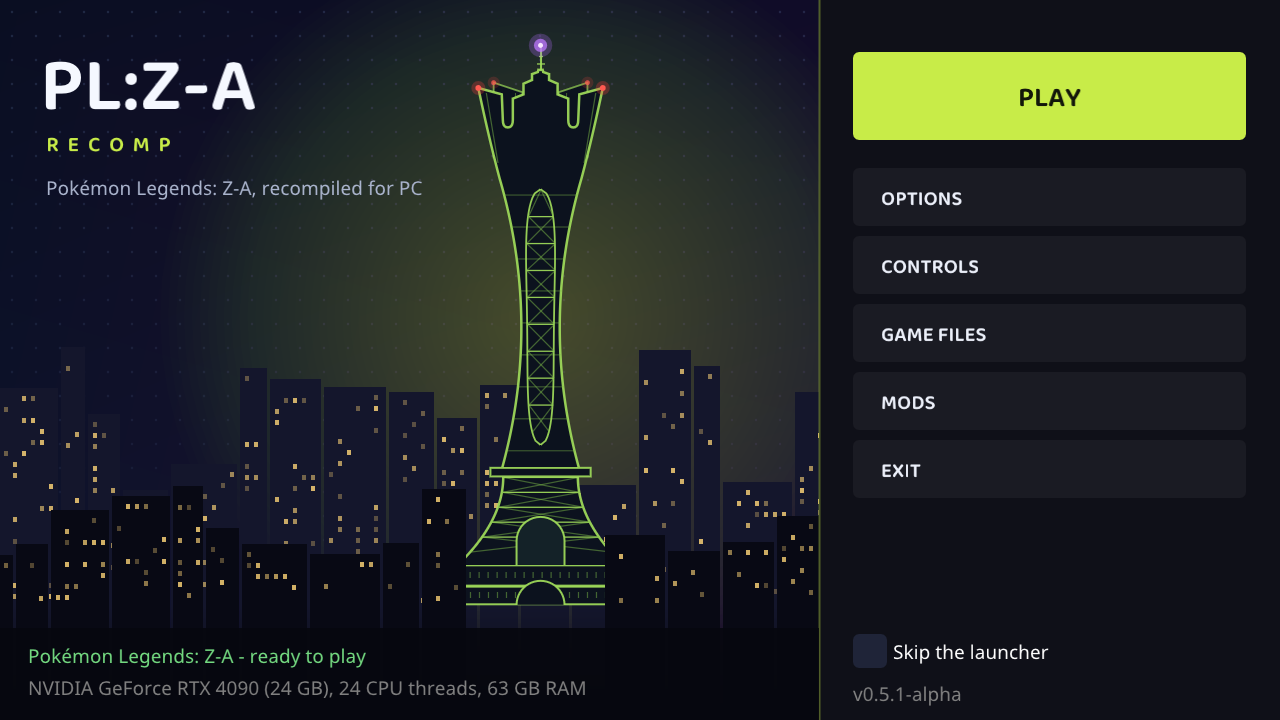
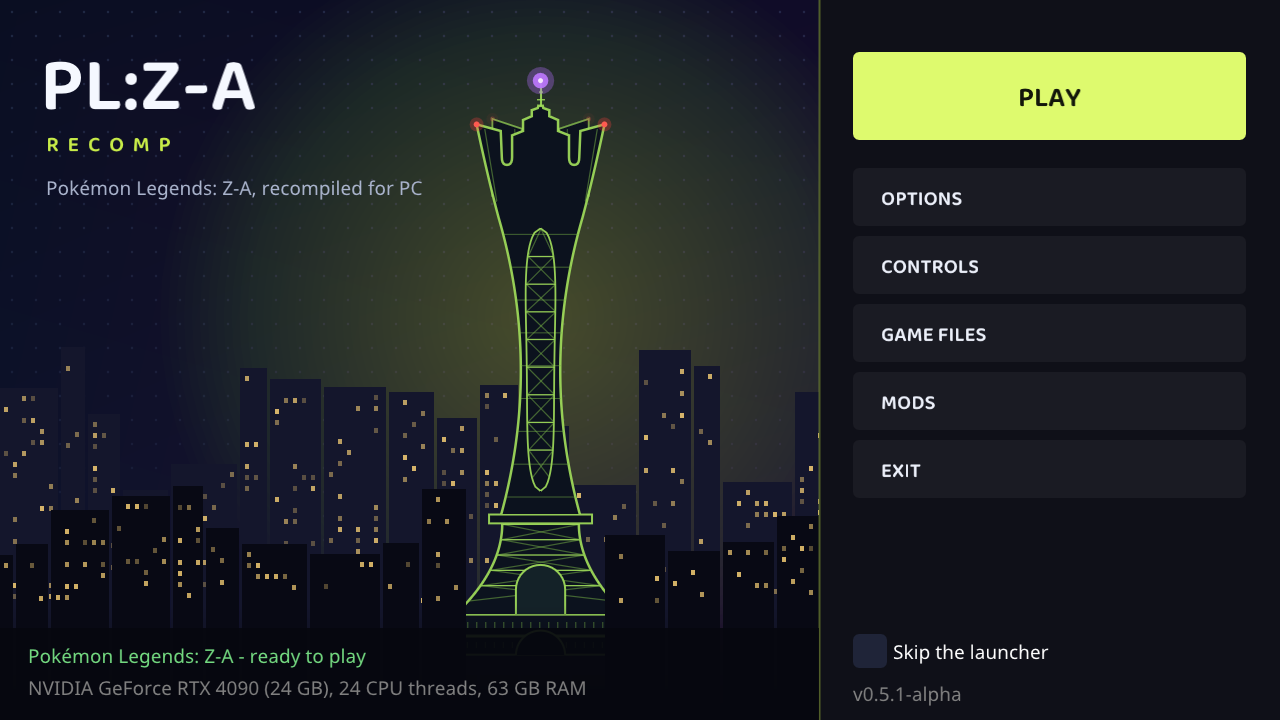
Windows build links again (AES-NI check by CPUID); extra workers off by default on Windows; Prism Tower lower
- runtime/nxpkg.c checked AES-NI with __builtin_cpu_supports, which needs __cpu_model - not in the Windows build's
  runtime (zig's lld-link): every Windows exe since d91775f failed to link ("undefined symbol: __cpu_model"), unseen
  because only objects were cross-compiled. Now CPUID leaf 1, ECX bit 25, read with <cpuid.h>.
- Testing the launcher under Wine found the game crashing right after Play with extra_workers = auto (three more job
  workers): "FATAL: no function at 7253b49760" on an extra worker's core; with them off it runs. Extra workers had
  only been tested on Linux - auto gives none on Windows until that's debugged (extra_workers = N still tries them).
  The launcher itself works under Wine: every page, Play into the game (title screen, 30 fps).
- Launcher banner: Prism Tower's foot lower, in the street - the back row's buildings no longer show below it.

Claude-Session: https://claude.ai/code/session_011448bvgDetmJAgtQGeC1wM

Changed region(s): [[0.3438, 0.0306, 0.5, 0.8556], [0.6562, 0.0611, 1.0, 0.2139]]

diff --git a/runtime/nxpkg.c b/runtime/nxpkg.c
@@ -29,6 +29,7 @@
 #define xsize(f) (fseeko(f, 0, SEEK_END), (uint64_t)ftello(f))
 #endif
 #if defined(__x86_64__) || defined(__i386__)
+#include <cpuid.h>
 #include <immintrin.h>
 #define HAVE_AESNI 1
 #endif
@@ -148,7 +149,11 @@ static void ctr_xor(const Aes *a, uint64_t upper, uint64_t block, uint8_t *buf, 
     for (int i = 0; i < 8; i++) iv[i] = (uint8_t)(upper >> (56 - 8 * i));
 #ifdef HAVE_AESNI
     static int ni = -1;
-    if (ni < 0) ni = __builtin_cpu_supports("aes");
+    if (ni < 0) {  // (CPUID 1, ECX bit 25: AES-NI - read directly: __builtin_cpu_supports needs a runtime symbol the
+                   // Windows build (zig's lld-link) doesn't have)
+        unsigned a, b, c, d;
+        ni = __get_cpuid(1, &a, &b, &c, &d) && (c >> 25 & 1);
+    }
     if (ni) {
         uint64_t hi;
         memcpy(&hi, iv, 8);

diff --git a/runtime/ui/launcher_lg.mm b/runtime/ui/launcher_lg.mm
@@ -543,7 +543,7 @@ static void banner(ImDrawList *d, ImVec2 a, ImVec2 b, float t) {
         d->AddCircleFilled(ImVec2(cx, base - h * 0.40f), h * 0.011f * i, IM_COL32(150, 230, 90, 2), 64);
     uint32_t s = 7;
     for (int layer = 0; layer < 2; layer++) {  // back row (taller, darker), then the tower, then the front row
-        if (layer == 1) prism_tower(d, cx, base, h * 0.74f, t);
+        if (layer == 1) prism_tower(d, cx, base + h * 0.07f, h * 0.76f, t);  // (its foot down in the street: no buildings below it)
         float x = a.x - 10;
         while (x < b.x) {
             float bw = 26.0f + (float)(rnd(&s) % 48), bh = h * (layer ? 0.06f + (float)(rnd(&s) % 100) * 0.0011f

diff --git a/runtime/hle/za_jobs.c b/runtime/hle/za_jobs.c
@@ -242,6 +242,10 @@ void za_jobs_configure(void) {
     if (g_want < 0) {  // (auto: one more per fast physical core past five, up to three - see above)
         int fast = cpupin_fast_cores();
         g_want = fast > 5 ? (fast - 5 < 3 ? fast - 5 : 3) : 0;
+#ifdef _WIN32
+        g_want = 0;  // (Windows: none - the Windows build under Wine crashed with three more right after the title
+                     // (a jump to data on an extra worker's core); not debugged yet: extra_workers = N to try them)
+#endif
     }
     if (g_want <= 0) { g_want = 0; LOG("[za] job workers: the game's three\n"); return; }
     if (g_want > 4) g_want = 4;
